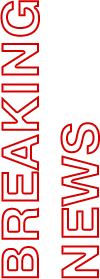
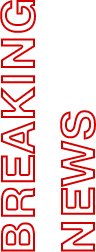
second

Changed region(s): [[0.0, 0.0, 0.4062, 1.0], [0.5938, 0.4167, 1.0, 1.0], [0.9375, 0.5833, 1.0, 0.6389]]

diff --git a/js/main.js b/js/main.js
@@ -132,7 +132,7 @@ window.addEventListener('DOMContentLoaded', function () {
         if(scrollTop >= 11900){
             $('#section02 .trigger_this_02 .fix_this_2 .page08 .h08_text').addClass('on')
         }
-        if(scrollTop >= 20100){
+        if(scrollTop >= 19640){
             $('#section02 .trigger_this_02 .fix_this_2 .page013 .h09_circle').addClass('on')
         }
         if(scrollTop >= 19400){
@@ -141,13 +141,13 @@ window.addEventListener('DOMContentLoaded', function () {
         if(scrollTop >= 21800){
             $('#section02 .trigger_this_02 .fix_this_2 .page014').addClass('on')
         }
-        if(scrollTop >= 24500){
+        if(scrollTop >= 24000){
             $('#section02 .trigger_this_02 .fix_this_2 .page014 .last_shape').addClass('on')
         }
         if(scrollTop >= 23000){
             $('#section02 .trigger_this_02 .fix_this_2 .page014 .last_left_text').addClass('on')
         }
-        if(scrollTop >= 24200){
+        if(scrollTop >= 24000){
             $('#section02 .trigger_this_02 .fix_this_2 .page014 .last_right_text').addClass('on')
         }
 

diff --git a/css/style.css b/css/style.css
@@ -306,8 +306,8 @@
     height: 150vh;
     position: absolute;
     left: 65%;
-    top: 5%;
-    transform: translate(-49.3%, -47%) rotate(-45deg);
+    top: 2%;
+    transform: translate(-50%, -49%) rotate(-45deg);
 }
 
 #oneScroller .main_00 .slick-track {
@@ -436,19 +436,19 @@
 .trigger_this_01 .fix_this_1 .feature_Photography {
     position: absolute;
     left: 49px;
-    top: 187px;
+    top: 215px;
 }
 
 .trigger_this_01 .fix_this_1 .feature_Photography_line {
     position: absolute;
-    top: 187px;
-    left: 66px;
+    top: 215px;
+    left: 50px;
 }
 
 .trigger_this_01 .fix_this_1 .breaking_news {
     position: absolute;
-    left: 49px;
-    top: 662px;
+    left: 50px;
+    top: 647px;
 }
 
 #section01 .img_01 {
